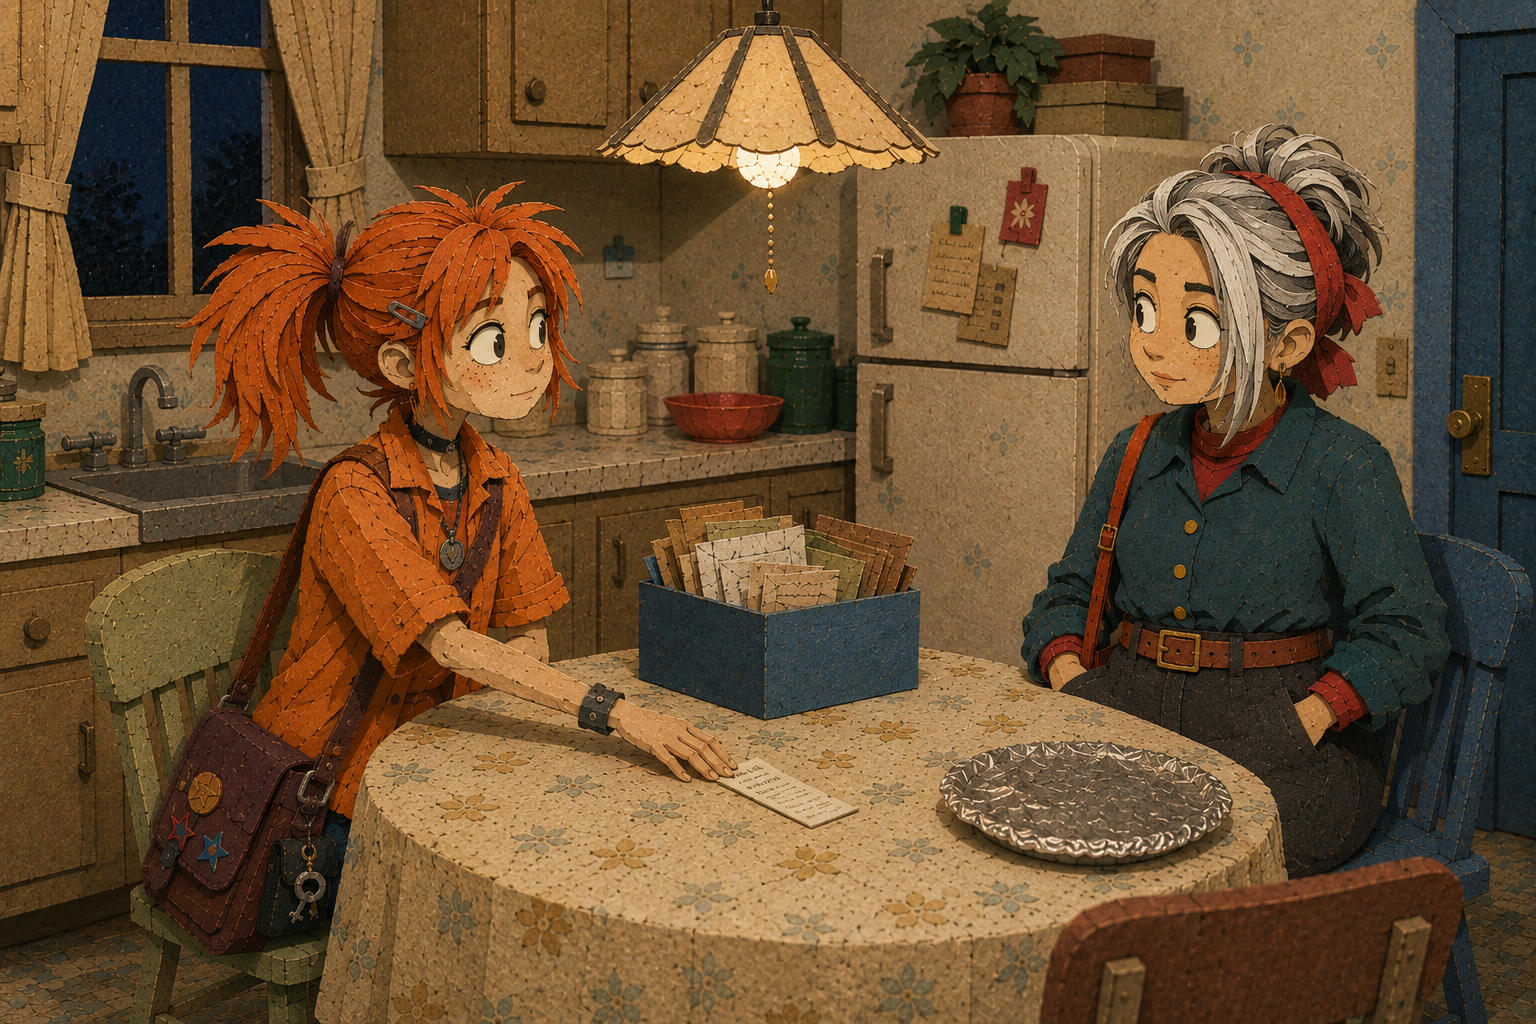
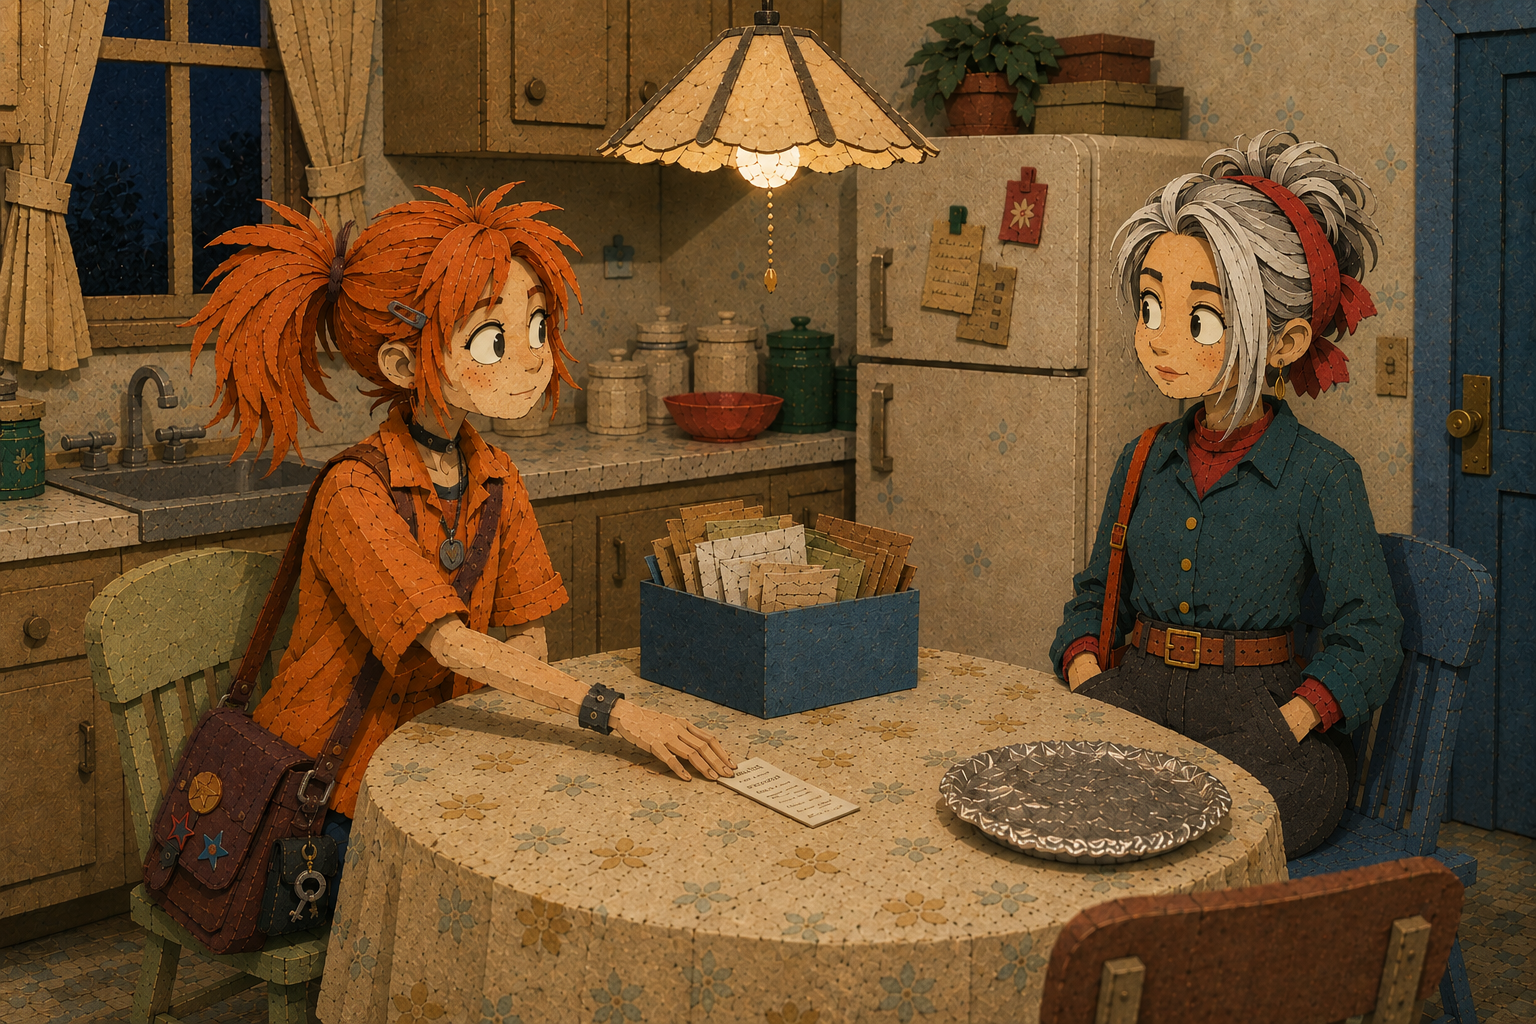
Move the Great Event to six months ago, and give the primer real separators
## Six months, and the shorter timeline is the better one

The date lived in exactly two places, lore.js and roster section 4.1, so the change
itself was small. What makes it an improvement was already in the text.

Volume 2 spread 8: Vex keeps a bin of dead devices because "they'd all stopped
working at the same time, on the same night, six months ago. The night the patches
had started." At twelve years the Event and the start of the patches were two
separate things needing two explanations. At six months they are the same night --
which is what the Event was always for, the thing that made the town patchable.

**The primer deliberately does not state that connection.** Both dates now read six
months, and a reader who notices has found something rather than been told it. Owen
and Vex work it out inside the book, which is where a discovery belongs.

Two knock-ons recorded rather than fixed. October plus six months puts the present
day in April, which nothing in the prose contradicts, and the school being emptied
mid-term rather than between school years is more disturbing, not less. The
delivered school plate shows dead grass and a sagging fence: dead grass reads fine
after a winter, and the sag is a small stretch at six months that is not worth a
regeneration.

## The primer looked unfinished, and two cheap things fix it

Three headings in three columns with only a gap between them read as floating on one
field with no indication where one ended and the next began.
[…]

diff --git a/app/globals.css b/app/globals.css
@@ -792,12 +792,73 @@ body {
 /* The reader's primer. Three entries side by side on a desktop so the whole frame is
    takeable in one look, stacked below that because three columns of 14px prose on a
    phone is four words a line. */
+/* Three entries, separated rather than merely spaced.
+
+   The first version set them in three columns with a gap and nothing else, and it read as
+   unfinished: three headings floating on one field with no indication where one ended and the
+   next began. Two things fix it, and both are cheap.
+
+   A rule BETWEEN the columns, carried on each entry's left edge. The reason this works here and
+   often does not is that grid items stretch to the row height by default, so all three rules are
+   the same length and end level with each other. Had the entries been flex children sizing to
+   their own content, the rules would have ended raggedly at three different heights, which looks
+   worse than no rule at all.
+
+   And a numeral on each, which does a second job: it says the three are ORDERED. The Event
+   causes the patches, and the patches are the thing nobody notices. Three unnumbered headings
+   side by side imply the order does not matter. */
 .mb-primer-grid {
   display: grid;
   grid-template-columns: 1fr;
-  gap: 26px;
-  margin-top: 26px;
+  margin-top: 4px;
 }
+
+.mb-primer-entry {
+  padding-top: 24px;
+  margin-top: 24px;
+  border-top: 1px solid var(--paper-rule);
+}
+.mb-primer-entry:first-child {
+  padding-top: 0;
+  margin-top: 0;
+  border-top: 0;
+}
+
+/* The numeral. Small, accent, and letterspaced so it reads as a mark rather than a quantity. */
+.mb-primer-num {
+  font-family: Arial, Helvetica, sans-serif;
+  font-weight: 700;
+  font-size: 10px;
+  letter-spacing: 0.2em;
+  color: var(--accent);
+  margin-bottom: 8px;
+}
+
 @media (min-width: 820px) {
-  .mb-primer-grid { grid-template-columns: repeat(3, 1fr); gap: 30px; }
+  .mb-primer-grid {
+    grid-template-columns: repeat(3, 1fr);
+    column-gap: 56px;
+    margin-top: 30px;
+  }
+  /* Stacked: rules go above. Side by side: rules go between.
+
+     The rule is a pseudo-element sitting in the middle of the gap, NOT a border-left on the
+     entry. A border would live inside the item's own box, so the two entries carrying one would
+     have 56px less text width than the first, and three columns of visibly different measure is
+     exactly the unfinished look this is meant to fix. In the gap, all three columns stay 1fr. */
+  .mb-primer-entry {
+    padding-top: 0;
+    margin-top: 0;
+    border-top: 0;
+    position: relative;
+  }
+  .mb-primer-entry + .mb-primer-entry::before {
+    content: '';
+    position: absolute;
+    top: 0;
+    bottom: 0;
+    left: -28px;
+    width: 1px;
+    background: var(--paper-rule);
+  }
 }

diff --git a/components/millbrook/Primer.js b/components/millbrook/Primer.js
@@ -72,8 +72,15 @@ export function Primer() {
         />
 
         <div className="mb-primer-grid">
-          {PRIMER.entries.map((e) => (
-            <div key={e.term}>
+          {PRIMER.entries.map((e, n) => (
+            <div key={e.term} className="mb-primer-entry">
+              {/* A numeral rather than a bullet or an icon. Three unnumbered headings in three
+                  columns read as a list whose order does not matter; these are ordered — the
+                  Event causes the patches and the patches are what nobody notices — and
+                  numbering them says so without a sentence spent on it. */}
+              <div className="mb-primer-num" aria-hidden="true">
+                {String(n + 1).padStart(2, '0')}
+              </div>
               <h3
                 style={{
                   fontFamily: type.body.fontFamily,

diff --git a/lib/millbrook/lore.js b/lib/millbrook/lore.js
@@ -28,7 +28,7 @@ export const PRIMER = {
     {
       term: 'The Great Event',
       body:
-        'Twelve years ago, on an ordinary Thursday afternoon in October, every clock in '
+        'Six months ago, on an ordinary Thursday afternoon in October, every clock in '
         + 'Millbrook lost the same ninety seconds. The elementary school on the east side '
         + 'was emptied that afternoon and never reopened. A chain link fence went up around '
         + 'its six acres inside a week and has never come down.\n\n'

diff --git a/patch-notes/prompt-sheet-vol2.md b/patch-notes/prompt-sheet-vol2.md
@@ -317,7 +317,10 @@ Palette
 Warm off-white paper base with subdued town colors and stronger character-specific accents. Printed pencil textures or dry brush may appear on the paper, but no glossy 3D surfaces.
 
 MUST HOLD, these override anything below that appears to contradict them:
-- Aunt Carol is not defeated and must not be drawn sad.
+- Aunt Carol is TALL, upright and lean, matching her canonical sheet: no softness at the jaw, no heaviness through the body.
+- She is not a stout or matronly older woman.
+- Her rust-red headscarf is tied as a band across the front of the hairline with its knotted ends trailing behind her left ear, and the single long brass drop earring hangs from that ear.
+- She is not defeated and must not be drawn sad.
 - The register is a woman carrying something heavy competently and for a long time.
 - Her silver-white hair is swept up with a rust-red headscarf knotted in it.
 - The receipt is small and its printing is not legible.
@@ -325,7 +328,7 @@ CHARACTER: Lena. Use the attached canonical reference image "char-lena-canonical
 An eighteen year old girl of medium height within the three girls, slim and practical in build with slightly narrow shoulders, long lower legs, fair warm skin with a scatter of freckles across the nose and cheeks, a narrow youthful face with a small chin, large round brown eyes that read as startled even at rest, thin mobile eyebrows set high, a small slightly upturned nose, and a wide expressive mouth. Orange hair gathered into **one large, uneven ponytail high at the BACK of her head**, layered and spiky, with loose wisps standing up at the crown and a fringe falling loose over her forehead; that single heavy ponytail is her dominant silhouette and it must never be split into a matched pair. In three-quarter and profile views it swings out to one side and reads as a side ponytail, but it is gathered centrally at the back — the canonical sheet is a three-quarter view and this is what it is showing. A small oval pendant on a thin chain sits at the centre of her chest at all times. Her resting expression is alert and slightly anxious, and her posture is open and earnest with a slight forward lean, as though listening or about to ask a question.
 Wardrobe, unchanged for this scene: Same orange collared shirt, sleeves pushed up, satchel strap present
 CHARACTER: Aunt Carol. Use the attached canonical reference image "char-carol-canonical.png" as the authority for face, build, hair and proportion. Match it; do not reinterpret it. The description below is a check on that image, not a licence to depart from it.
-A woman in her late fifties, tall, upright and lean rather than soft, fair skin with a scatter of freckles across the nose and cheeks, a face that has kept its structure with no slackness at the jaw, large alert dark eyes under fine dark eyebrows that contrast strongly with her hair, a straight nose, and a small closed mouth that rests level and goes up at one corner when she is amused. Abundant hair worn piled up and back off the face with height at the crown and loose curling strands escaping it, silver-white shot through with darker charcoal streaks rather than uniformly grey. A rust-red patterned headscarf is tied as a band across the front of the hairline at all times with its knotted ends trailing loose behind her left ear, and a single long brass drop earring hangs from that ear.
+A woman in her late fifties, tall, upright and lean rather than soft — she is **never** drawn stout, heavy or matronly, and the canonical sheet is the authority on her build — fair skin with a scatter of freckles across the nose and cheeks, a face that has kept its structure with no slackness at the jaw, large alert dark eyes under fine dark eyebrows that contrast strongly with her hair, a straight nose, and a small closed mouth that rests level and goes up at one corner when she is amused. Abundant hair worn piled up and back off the face with height at the crown and loose curling strands escaping it, silver-white shot through with darker charcoal streaks rather than uniformly grey. A rust-red patterned headscarf is tied as a band across the front of the hairline at all times with its knotted ends trailing loose behind her left ear, and a single long brass drop earring hangs from that ear.
 Wardrobe, unchanged for this scene: dark teal button-up shirt with brass buttons and the sleeves rolled to the forearm, worn over a rust-red knit high-neck layer that shows at the throat and at the cuffs. High-waisted charcoal wide-leg cropped trousers with turn-ups, a brown leather belt with a large square brass buckle, rust-red socks and dark ankle boots with a low heel. A rust-red leather satchel on a long strap worn diagonally across the body from the right shoulder
 SETTING: no reference image is attached, so the description below is the only authority for this place and every element in it is required.
 A dated kitchen with wood-look cabinets, patterned linoleum, a small round table with a vinyl tablecloth and four mismatched chairs, a single bulb on a chain hanging low over the table.

diff --git a/patch-notes/specs/PATCH_NOTES_FLIPBOOK_ROSTER.md b/patch-notes/specs/PATCH_NOTES_FLIPBOOK_ROSTER.md
@@ -343,7 +343,7 @@ He remains deliberately absent from the final image of Volume 4 even though he i
 **Rendering note.** He is livestock, not a mascot: he is never doing anything clever, never reacting to plot, and never given an expression that implies he understands. He sleeps, stands and leans on people. Monke carries all of the project's animal ambiguity and the pig carries none of it, which is what keeps Monke unsettling.
 
 ### {{CHAR:AUNT_CAROL}}
-**Immutable:** A woman in her late fifties, tall, upright and lean rather than soft, fair skin with a scatter of freckles across the nose and cheeks, a face that has kept its structure with no slackness at the jaw, large alert dark eyes under fine dark eyebrows that contrast strongly with her hair, a straight nose, and a small closed mouth that rests level and goes up at one corner when she is amused. Abundant hair worn piled up and back off the face with height at the crown and loose curling strands escaping it, silver-white shot through with darker charcoal streaks rather than uniformly grey. A rust-red patterned headscarf is tied as a band across the front of the hairline at all times with its knotted ends trailing loose behind her left ear, and a single long brass drop earring hangs from that ear.
+**Immutable:** A woman in her late fifties, tall, upright and lean rather than soft — she is **never** drawn stout, heavy or matronly, and the canonical sheet is the authority on her build — fair skin with a scatter of freckles across the nose and cheeks, a face that has kept its structure with no slackness at the jaw, large alert dark eyes under fine dark eyebrows that contrast strongly with her hair, a straight nose, and a small closed mouth that rests level and goes up at one corner when she is amused. Abundant hair worn piled up and back off the face with height at the crown and loose curling strands escaping it, silver-white shot through with darker charcoal streaks rather than uniformly grey. A rust-red patterned headscarf is tied as a band across the front of the hairline at all times with its knotted ends trailing loose behind her left ear, and a single long brass drop earring hangs from that ear.
 **Canonical reference:** `char-carol-canonical.png` · Seed: pending · Approved: no
 **Rendering note:** She is not defeated and should not be drawn sad. The register is a woman carrying something heavy competently and for a long time.
 **Rewritten twice on 2026-07-28. This version is from the canonical sheet and is the
@@ -447,7 +447,7 @@ times and never explains it, correctly: every character was there, so none of th
 explain it to another. That works inside the book and strands a reader outside it, which is why
 a primer now sits on the landing page. This is the version it is built on.
 
-**Twelve years ago, on an ordinary Thursday afternoon in October, every clock in Millbrook lost
+**Six months ago, on an ordinary Thursday afternoon in October, every clock in Millbrook lost
 the same ninety seconds.** The elementary school on the east side was emptied that afternoon and
 never reopened. A chain link fence went up around its six acres within a week and has never come
 down. Nobody was hurt, no building fell, and nobody in Millbrook remembers being frightened.
@@ -459,6 +459,24 @@ pothole was gone."* The Event and every patch since share one signature, which m
 was the first patch and the largest, and the reason the town can be patched at all. That
 connection was sitting in the draft unremarked; naming the Event this way makes it retroactive
 rather than invented.
+
+**Revised to six months on 2026-07-29, on author instruction, and the shorter timeline is the
+better one for a reason that was already in the text.** Volume 2 spread 8: Vex keeps a bin of
+dead devices because *"they’d all stopped working at the same time, on the same night, six
+months ago. The night the patches had started."* At twelve years the Event and the start of the
+patches were separate events needing separate explanations. At six months they are the same
+night, which is what the Event was always supposed to be — the thing that made the town
+patchable.
+
+The primer deliberately does NOT state that connection. Both dates now read "six months", and
+a reader who notices has found something rather than been told it. Owen and Vex work it out
+inside the book, which is where the discovery belongs.
+
+Two knock-on details worth knowing rather than fixing. October plus six months puts the present
+day in April, which nothing in the prose contradicts. And the school being emptied mid-term
+rather than between years is more disturbing, not less. The delivered school plate shows dead
+grass and a sagging fence; dead grass reads fine after a winter, and the sag is a small stretch
+at six months that is not worth a regeneration.
 
 It also explains, without any new machinery, three things the prose already relies on: why the
 school is fenced and central, why residents cannot hold a change in mind long enough to question

diff --git a/patch-notes/prompt-sheet-vol4.md b/patch-notes/prompt-sheet-vol4.md
@@ -67,11 +67,16 @@ Town treatment
 
 Palette
 Warm off-white paper base with subdued town colors and stronger character-specific accents. Printed pencil textures or dry brush may appear on the paper, but no glossy 3D surfaces.
+
+MUST HOLD, these override anything below that appears to contradict them:
+- Aunt Carol is TALL, upright and lean, matching her canonical sheet: no softness at the jaw, no heaviness through the body.
+- She is not a stout or matronly older woman.
+- Her rust-red headscarf is tied as a band across the front of the hairline with its knotted ends trailing behind her left ear, and the single long brass drop earring hangs from that ear.
 CHARACTER: Lena. Use the attached canonical reference image "char-lena-canonical.png" as the authority for face, build, hair and proportion. Match it; do not reinterpret it. The description below is a check on that image, not a licence to depart from it.
 An eighteen year old girl of medium height within the three girls, slim and practical in build with slightly narrow shoulders, long lower legs, fair warm skin with a scatter of freckles across the nose and cheeks, a narrow youthful face with a small chin, large round brown eyes that read as startled even at rest, thin mobile eyebrows set high, a small slightly upturned nose, and a wide expressive mouth. Orange hair gathered into **one large, uneven ponytail high at the BACK of her head**, layered and spiky, with loose wisps standing up at the crown and a fringe falling loose over her forehead; that single heavy ponytail is her dominant silhouette and it must never be split into a matched pair. In three-quarter and profile views it swings out to one side and reads as a side ponytail, but it is gathered centrally at the back — the canonical sheet is a three-quarter view and this is what it is showing. A small oval pendant on a thin chain sits at the centre of her chest at all times. Her resting expression is alert and slightly anxious, and her posture is open and earnest with a slight forward lean, as though listening or about to ask a question.
 Wardrobe, unchanged for this scene: Same orange collared shirt, visibly creased and slept in, satchel strap present
 CHARACTER: Aunt Carol. Use the attached canonical reference image "char-carol-canonical.png" as the authority for face, build, hair and proportion. Match it; do not reinterpret it. The description below is a check on that image, not a licence to depart from it.
-A woman in her late fifties, tall, upright and lean rather than soft, fair skin with a scatter of freckles across the nose and cheeks, a face that has kept its structure with no slackness at the jaw, large alert dark eyes under fine dark eyebrows that contrast strongly with her hair, a straight nose, and a small closed mouth that rests level and goes up at one corner when she is amused. Abundant hair worn piled up and back off the face with height at the crown and loose curling strands escaping it, silver-white shot through with darker charcoal streaks rather than uniformly grey. A rust-red patterned headscarf is tied as a band across the front of the hairline at all times with its knotted ends trailing loose behind her left ear, and a single long brass drop earring hangs from that ear.
+A woman in her late fifties, tall, upright and lean rather than soft — she is **never** drawn stout, heavy or matronly, and the canonical sheet is the authority on her build — fair skin with a scatter of freckles across the nose and cheeks, a face that has kept its structure with no slackness at the jaw, large alert dark eyes under fine dark eyebrows that contrast strongly with her hair, a straight nose, and a small closed mouth that rests level and goes up at one corner when she is amused. Abundant hair worn piled up and back off the face with height at the crown and loose curling strands escaping it, silver-white shot through with darker charcoal streaks rather than uniformly grey. A rust-red patterned headscarf is tied as a band across the front of the hairline at all times with its knotted ends trailing loose behind her left ear, and a single long brass drop earring hangs from that ear.
 Wardrobe, unchanged for this scene: dark teal button-up shirt with brass buttons and the sleeves rolled to the forearm, worn over a rust-red knit high-neck layer that shows at the throat and at the cuffs. High-waisted charcoal wide-leg cropped trousers with turn-ups, a brown leather belt with a large square brass buckle, rust-red socks and dark ankle boots with a low heel. A rust-red leather satchel on a long strap worn diagonally across the body from the right shoulder
 SETTING: no reference image is attached, so the description below is the only authority for this place and every element in it is required.
 A cramped living room with a sagging patterned couch, a doily-covered side table, a boxy older television on a low stand, and an open doorway through to the kitchen.

diff --git a/patch-notes/specs/PATCH_NOTES_Vol2_Spec.md b/patch-notes/specs/PATCH_NOTES_Vol2_Spec.md
@@ -705,7 +705,7 @@ Shot type: Character portrait or close (two-shot)
 Depicts: Beat 3. Lena sliding the bookstore receipt across the kitchen table, Aunt Carol looking at it for longer than she needs to.
 Spoiler check: PASS. Final beat is Aunt Carol filing the receipt away into her box as though it belonged there. Not depicted; the receipt is still on the open table between them and her hands have not moved to it.
 
-Hard constraints: Aunt Carol is not defeated and must not be drawn sad. The register is
+Hard constraints: Aunt Carol is TALL, upright and lean, matching her canonical sheet: no softness at the jaw, no heaviness through the body. She is not a stout or matronly older woman. Her rust-red headscarf is tied as a band across the front of the hairline with its knotted ends trailing behind her left ear, and the single long brass drop earring hangs from that ear. She is not defeated and must not be drawn sad. The register is
 a woman carrying something heavy competently and for a long time. Her silver-white hair
 is swept up with a rust-red headscarf knotted in it. The receipt is small and its
 printing is not legible.

diff --git a/patch-notes/specs/PATCH_NOTES_Vol4_Spec.md b/patch-notes/specs/PATCH_NOTES_Vol4_Spec.md
@@ -145,6 +145,8 @@ Shot type: Character portrait
 Depicts: Beat 3. Lena and her aunt watching the announcement from two different rooms.
 Spoiler check: PASS. Final beat is Felix saying the circle finishes today. Not depicted; the scene never leaves the house and no phone is in hand.
 
+Hard constraints: Aunt Carol is TALL, upright and lean, matching her canonical sheet: no softness at the jaw, no heaviness through the body. She is not a stout or matronly older woman. Her rust-red headscarf is tied as a band across the front of the hairline with its knotted ends trailing behind her left ear, and the single long brass drop earring hangs from that ear.
+
 Prompt:
 
 ```
